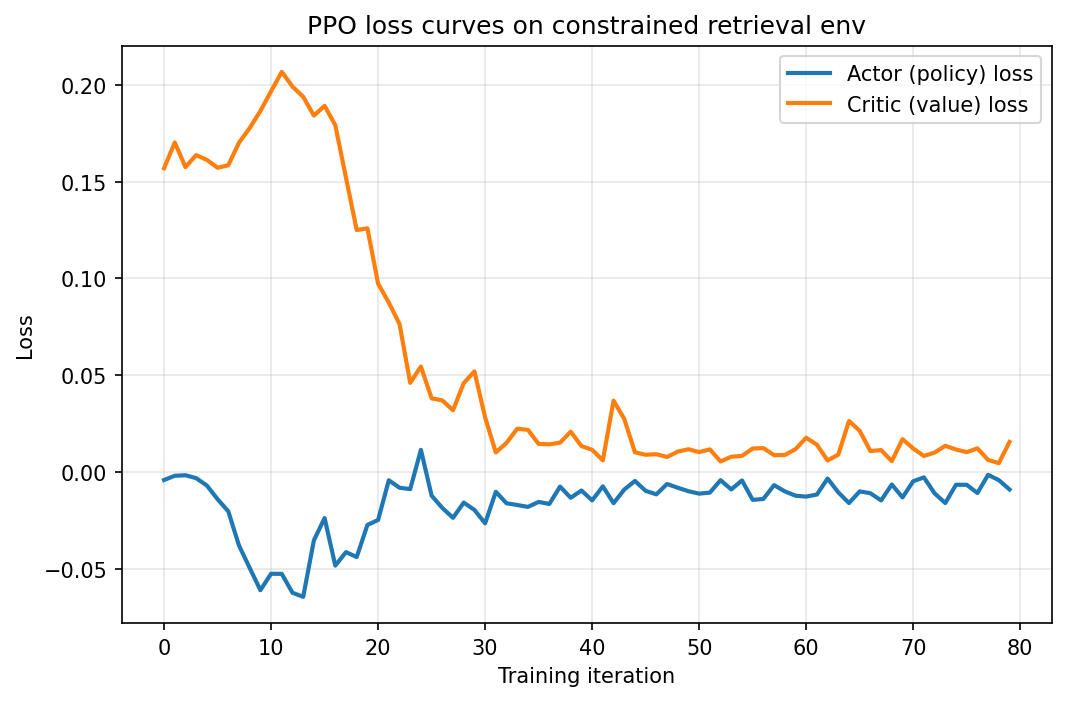
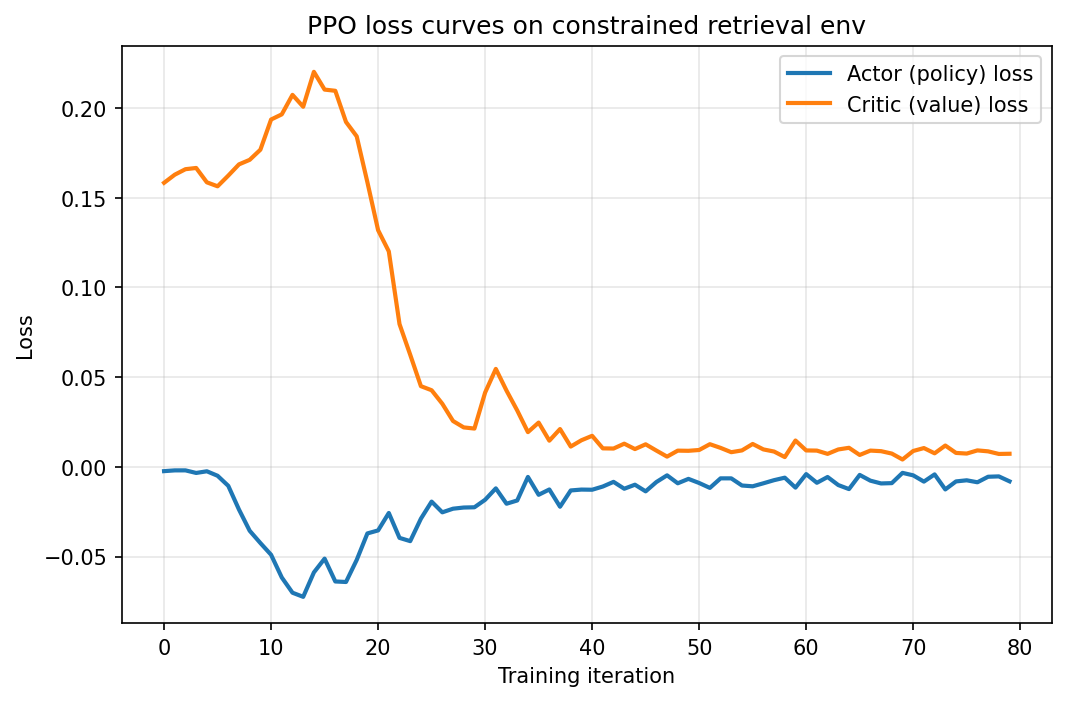
Few changes and bug fixes.

diff --git a/tasks/task_generator.py b/tasks/task_generator.py
@@ -194,6 +194,23 @@ def make_judgment_clarify(rng, world, planted, difficulty):
 # blind action. This is one half of the symmetric pair: well-specified tasks instead guard against asking, so the agent must learn to ask only
 # when genuinely ambiguous.
 
+def make_judgment_well_specified(rng, world, planted, difficulty):
+    if not planted["files"]:
+        return None
+    fid = rng.choice(planted["files"])
+    f = world.get_file(fid)
+    dest = rng.choice([p for p in FOLDERS if p != f.folder_path])
+    instruction = (f"Move the file '{f.name}' (id {fid}) into {dest}. "
+                   f"This request is complete and unambiguous.")
+    goal_spec = [
+        {"check": "file_id_in_folder", "kind": "positive",
+         "params": {"file_id": fid, "folder_path": dest}},
+        {"check": "clarification_not_asked", "kind": "guard", "params": {}},
+    ]
+    return instruction, goal_spec
+
+# Makes sure that a clarificaiton is not asked because the task is completetly eligible and able to be completed.
+ 
 def make_summary_task(rng, world, planted, difficulty):
     candidates = [fid for fid in planted["files"] if planted["file_facts"].get(fid)]
     if not candidates:
@@ -202,20 +219,22 @@ def make_summary_task(rng, world, planted, difficulty):
     f = world.get_file(fid)
     facts = planted["file_facts"][fid]
     required = list(facts.values())[:2]
-    instruction = (f"Read the file '{f.name}' and create a summary note in /Shared that includes "
+    instruction = (f"Read the file '{f.name}' and create a NEW summary note in /Shared that includes "
                    f"its key figures. The summary must mention: {', '.join(required)}.")
     goal_spec = [
-        {"check": "file_has_content", "kind": "positive",
-         "params": {"file_id": fid, "must_include": required}},
+        {"check": "summary_in_folder", "kind": "positive",
+         "params": {"folder_path": "/Shared", "must_include": required,
+                    "exclude_file_id": fid}},
+        {"check": "no_collateral_moves", "kind": "guard",
+         "params": {"allowed_files": [fid],
+                    "original_locations": dict(planted["original_locations"])}},
     ]
     return instruction, goal_spec
 
-# This is the make_summary_task, a multi-step composition task. It takes the same four arguments. First we find files that actually have
-# recorded facts, returning None if there are none. Then we choose one, get the file, grab its facts, and take the two most important ones. The
-# instruction is e.g. "Read the file 'q3_budget.xlsx' and create a summary note in /Shared that includes its key figures. The summary must
-# mention: $327,000, $180K." The goal_spec has a positive, file_has_content, which checks those facts are present.
-# NOTE: this is the weakest task. As written it checks the SOURCE file still has the facts, which it always does, so it is not yet rigorous. A
-# proper version would check that a NEW file in /Shared contains the facts, proving the agent actually wrote a summary. Tighten before relying on it.
+# This is the make_summary task we define candidates to be a list of all the file ids with file facts, then we choose a random file id
+# out of all of those and define f to be the file corresponding to that random file id. Then we define facts to be the facts corresponding to that file
+# and define required to be most of the facts for that specifc task and instruct the agent to creat a new summary file in the Shared folder that
+# includes those key facts. 
 
 def make_retrieval_by_fact(rng, world, planted, difficulty):
     if not planted["emails"]:
@@ -243,27 +262,26 @@ def make_retrieval_by_fact(rng, world, planted, difficulty):
 
 def make_communication_task(rng, world, planted, difficulty):
     recipient_name, recipient_addr = rng.choice(CONTACTS)
-    if not planted["emails"]:
+    candidates = [eid for eid in planted["emails"] if planted["email_facts"].get(eid)]
+    if not candidates:
         return None
-    eid = rng.choice(planted["emails"])
-    facts = planted["email_facts"].get(eid)
-    if not facts:
-        return None
-    fact_value = rng.choice(list(facts.values()))
-    topic = world.get_email(eid).subject
-    instruction = (f"Send an email to {recipient_name.split()[0]} ({recipient_addr}) "
-                   f"about '{topic}'. Make sure to include this detail: {fact_value}.")
+    eid = rng.choice(candidates)
+    email = world.get_email(eid)
+    facts = planted["email_facts"][eid]
+    fact_key = rng.choice(list(facts.keys()))
+    fact_value = facts[fact_key]
+    instruction = (f"Find the email about '{email.subject}', then forward its "
+                   f"{fact_key.replace('_',' ')} to {recipient_name.split()[0]} ({recipient_addr}).")
     goal_spec = [
         {"check": "email_sent_to", "kind": "positive",
          "params": {"recipient": recipient_addr, "must_include": [fact_value]}},
     ]
     return instruction, goal_spec
-
+ 
 # This is the make_communication_task. We define reciptenet name and addr to be a random choice from the contacts and then eid is a random
 # email id we choose from the planted world. We also store the facts of that email in a variable, and choose a random fact within the dict
 # and then topic is the subject of the email. So the instruction of this task is to ask the agent to send an email about a specific topic
 # that includes a specific fact.
- 
  
 def make_dedup_task(rng, world, planted, difficulty):
     if not planted["files"]:

diff --git a/rl/rl_env.py b/rl/rl_env.py
@@ -104,8 +104,8 @@ class ConstrainedEnv(gym.Env):
 
         self.target = self.py_rng.randint(0, self.N_EMAILS - 1)
         target_eid, target_entry, target_sender = email_ids[self.target]
-        fact_key = self.py_rng.choice(list(target_entry["facts"].keys()))
-        self.target_fact = target_entry["facts"][fact_key]
+        self.fact_key = self.py_rng.choice(list(target_entry["facts"].keys()))
+        self.target_fact = target_entry["facts"][self.fact_key]
         target_keyword = EMAIL_CONTENT.index(target_entry) % self.N_KEYWORDS
 
         # We pick a random target email out of the 5 and pull out its id, entry and sender. Then we choose a random fact from that email's facts dict to be the thing we ask for,
@@ -152,14 +152,11 @@ class ConstrainedEnv(gym.Env):
 
         # We look up the email the agent actually chose using the action as an index.
 
-        if action == self.target:
-            self.world.done_answer = self.target_fact
-        else:
-            chosen_facts = list(chosen_entry["facts"].values())
-            self.world.done_answer = chosen_facts[0] if chosen_facts else ""
+        self.world.done_answer = chosen_entry["facts"].get(self.fact_key, "")
 
-        # If the agent picked the right email we set done_answer to the target fact, which will match. If it picked a wrong email we set done_answer to that wrong email's fact,
-        # which will not match the expected one. Either way we are setting done_answer exactly like the real done operation does.
+        # The key point is that correctness is decided entirely by the verifier, not by us. We hand it the chosen email's fact and run_verifier compares it to the expected
+        # target fact via answer_matches. If the agent chose the right email those match and reward is 1, otherwise they differ and reward is 0. The reward is genuinely
+        # produced by our real verifier, not a hand written comparison.
 
         reward = run_verifier(self.task_goal, self.world)["reward"]
         return self.obs, reward, True, False, {"target": self.target}

diff --git a/workspace/operations.py b/workspace/operations.py
@@ -36,6 +36,7 @@ class ActionType(str, Enum):
     RENAME_FILE = "rename_file"
     DELETE_FILE = "delete_file"
     CREATE_FOLDER = "create_folder"
+    CREATE_FILE = "create_file"
     SHARE_FILE = "share_file"
 
     # These are writing based actions relating to files and folders
@@ -60,6 +61,7 @@ REQUIRED_PARAMS: dict[ActionType, list] = {
     ActionType.RENAME_FILE:      ["file_id", "new_name"],
     ActionType.DELETE_FILE:      ["file_id"],
     ActionType.CREATE_FOLDER:    ["path"],
+    ActionType.CREATE_FILE:      ["name", "content", "folder_path"],
     ActionType.SHARE_FILE:       ["file_id", "user"],
     ActionType.SAVE_ATTACHMENT:  ["email_id", "attachment_id", "dest_path"],
     ActionType.ASK_CLARIFICATION:["question"],
@@ -110,6 +112,7 @@ def execute_action(action: dict[str, Any], world: World) -> tuple[str, float, bo
         ActionType.RENAME_FILE:       rename_file,
         ActionType.DELETE_FILE:       delete_file,
         ActionType.CREATE_FOLDER:     create_folder,
+        ActionType.CREATE_FILE:       create_file,
         ActionType.SHARE_FILE:        share_file,
         ActionType.SAVE_ATTACHMENT:   save_attachment,
         ActionType.ASK_CLARIFICATION: ask_clarification,

diff --git a/README.md b/README.md
@@ -43,7 +43,7 @@ seen-vs-unseen generalization gap, and breakdowns by category and difficulty).
 `move`, `cross_app` (save attachment + reply), `archive`, `retrieval_fact` (read content
 and report a fact), `judgment_overshare` (share correctly without leaking),
 `judgment_clarify` (ask when underspecified), `summary`, `communication` (send with
-required content), `dedup` (delete the duplicate), and `long_horizon` (a multi-step chain).
+required content), `dedup` (delete the duplicate), `long_horizon`, and `judgment_well_specified` (a multi-step chain).
 
 ## Key properties
 